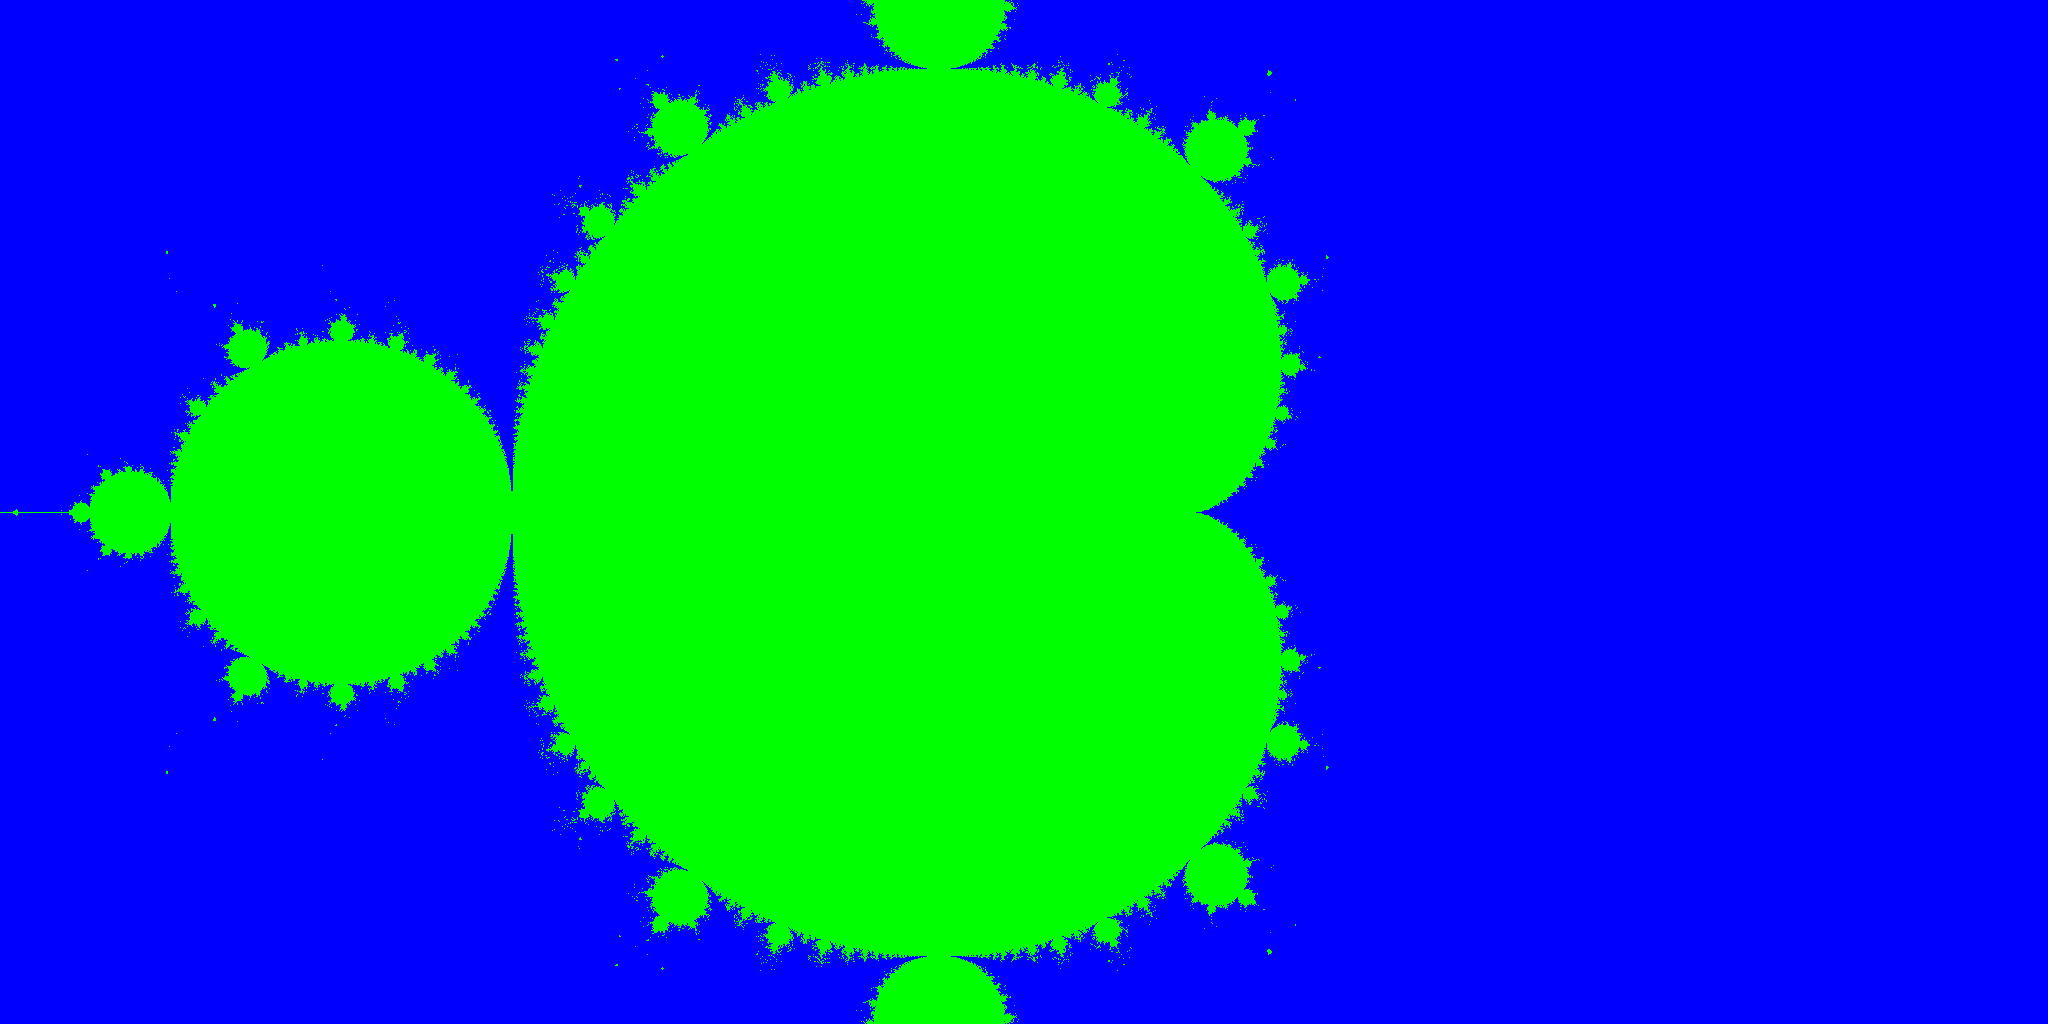
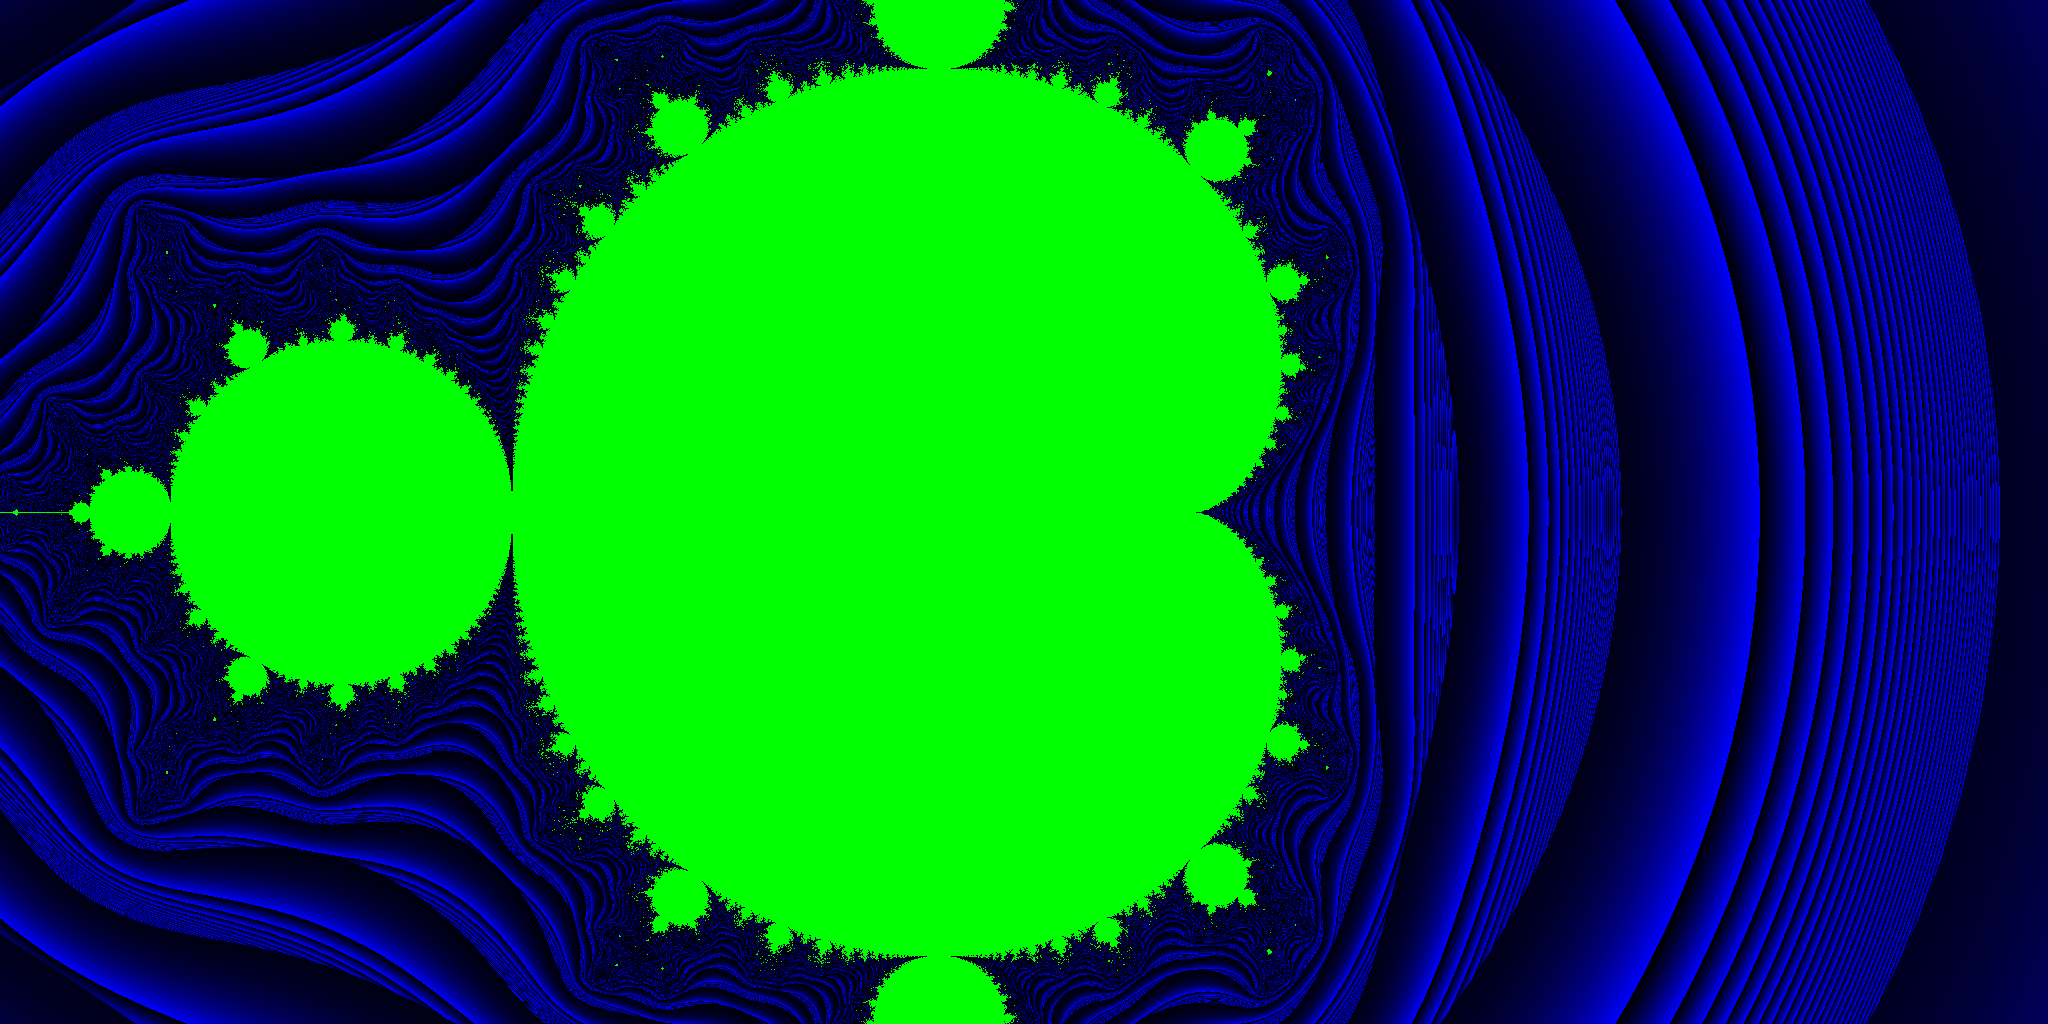
mess

diff --git a/src/lecture_7/Sample4.java b/src/lecture_7/Sample4.java
@@ -36,14 +36,12 @@ public class Sample4 {
 				int res = fact(xx, yy); 
 				if (fact(xx, yy) == -1.0) 
 					img.setRGB(x, y, 0x00ff00);
-				else {
-					res = res & 0xFF
-					img.setRGB(x, y, 0x0000ff);
-					
-				}
+				else 
+					img.setRGB(x, y, res & 0xFF);
+			}
 		ImageIO.write(img, "png", new File("m.png"));
 		
-
+		
 	}
 
 }
